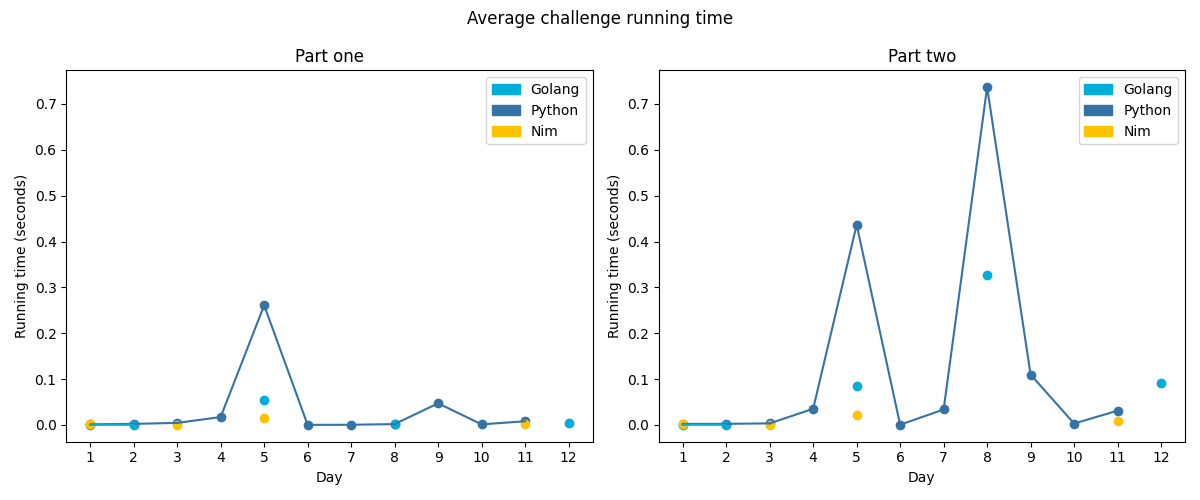
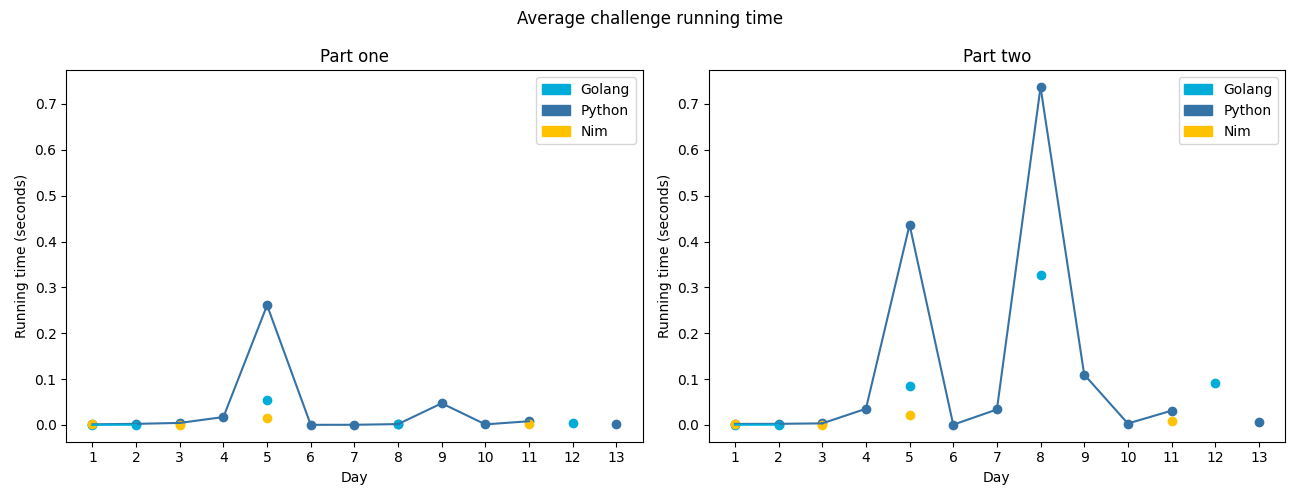
Add 2021-13 in Python

diff --git a/challenges/2021/13-transparentOrigami/py/__init__.py b/challenges/2021/13-transparentOrigami/py/__init__.py
@@ -1,0 +1,93 @@
+import re
+from typing import Dict, Tuple, List
+from aocpy import BaseChallenge
+from dataclasses import dataclass
+
+
+Point = Tuple[int, int]
+Sheet = Dict[Point, bool]
+
+
+INSTRUCTION_REGEX = re.compile(r"fold along (x|y)=(\d+)")
+
+
+@dataclass
+class Instruction:
+    axis: str
+    n: int
+
+
+def parse(instr: str) -> Tuple[Sheet, List[Instruction]]:
+    sheetPoints, instructions = instr.strip().split("\n\n")
+    
+    sheet = {}
+    for point in sheetPoints.splitlines():
+        x, y = point.split(",")
+        sheet[(int(x), int(y))] = True
+
+    ins = []
+    for line in instructions.splitlines():
+        m = INSTRUCTION_REGEX.match(line)
+        ins.append(Instruction(
+            m.group(1),
+            int(m.group(2)),
+        )
+        )
+
+
+    return sheet, ins
+
+
+def print_sheet(sheet: Sheet):
+    max_x = max(x for x, y in sheet)
+    max_y = max(y for x, y in sheet)
+    lines = []
+    for y in range(max_y + 1):
+        ll = ""
+        for x in range(max_x + 1):
+            ll += "██" if sheet.get((x, y), False) else "  "
+        lines.append(ll)
+    for x in lines:
+        print(x, flush=True)
+
+
+def apply_instruction(sheet: Sheet, instruction: Instruction) -> Sheet:
+
+    # max_val = max((x for x, _ in sheet) if instruction.axis == "x" else (y for _, y in sheet))
+
+    def mod_point(p: Point) -> Point:
+        v = p[0]
+        if instruction.axis == "y":
+            v = p[1]
+
+        if v > instruction.n:
+            if instruction.axis == "x":
+                return (instruction.n - (p[0] - instruction.n), p[1])
+            elif instruction.axis == "y":
+                return (p[0], instruction.n - (p[1] - instruction.n))
+            raise ValueError(f"unknown axis {instruction.axis}")
+        
+        return p
+
+    new_sheet = {}
+    for point in sheet:
+        new_sheet[mod_point(point)] = True
+
+    return new_sheet
+
+
+class Challenge(BaseChallenge):
+
+    @staticmethod
+    def one(instr: str) -> int:
+        sheet, instructions = parse(instr)
+        sheet = apply_instruction(sheet, instructions[0])
+        return sum(sheet.values())
+
+    @staticmethod
+    def two(instr: str) -> str:
+        sheet, instructions = parse(instr)
+        for instruction in instructions:
+            sheet = apply_instruction(sheet, instruction)
+        print_sheet(sheet)
+        return "work it out yourself"

diff --git a/challenges/2021/README.md b/challenges/2021/README.md
@@ -22,6 +22,7 @@ Solutions to the [2021 Advent of Code](https://adventofcode.com/2021).
 | 10 - Syntax Scoring                 | Complete           | [Python](10-syntaxScoring/py)                                                                           | I can't say I've ever broken something so thoroughly that it has a syntax error on *every* line...                                  |
 | 11 - Dumbo Octopus                  | Complete           | [Python](11-dumboOctopus/py), [Nim](11-dumboOctopus/nim)                                                | Cellular automata my beloved <3                                                                                                     |
 | 12 - Passage Pathing                | Complete           | [Go](12-passagePathing/go)                                                                              | I couldn't tell you how it works, but it does kinda work and I think I have a vague idea (external help was used).                  |
+| 13 - Transparent Origami            | Complete           | [Python](13-transparentOrigami/py)                                                                      | I got stuck for hours on an intermittent off-by-one error. :(                                                                       |
 
 <!-- PARSE END -->
 

diff --git a/challenges/2021/13-transparentOrigami/README.md b/challenges/2021/13-transparentOrigami/README.md
@@ -1,0 +1,2 @@
+# [Day 13: Transparent Origami](https://adventofcode.com/2021/day/13)
+
